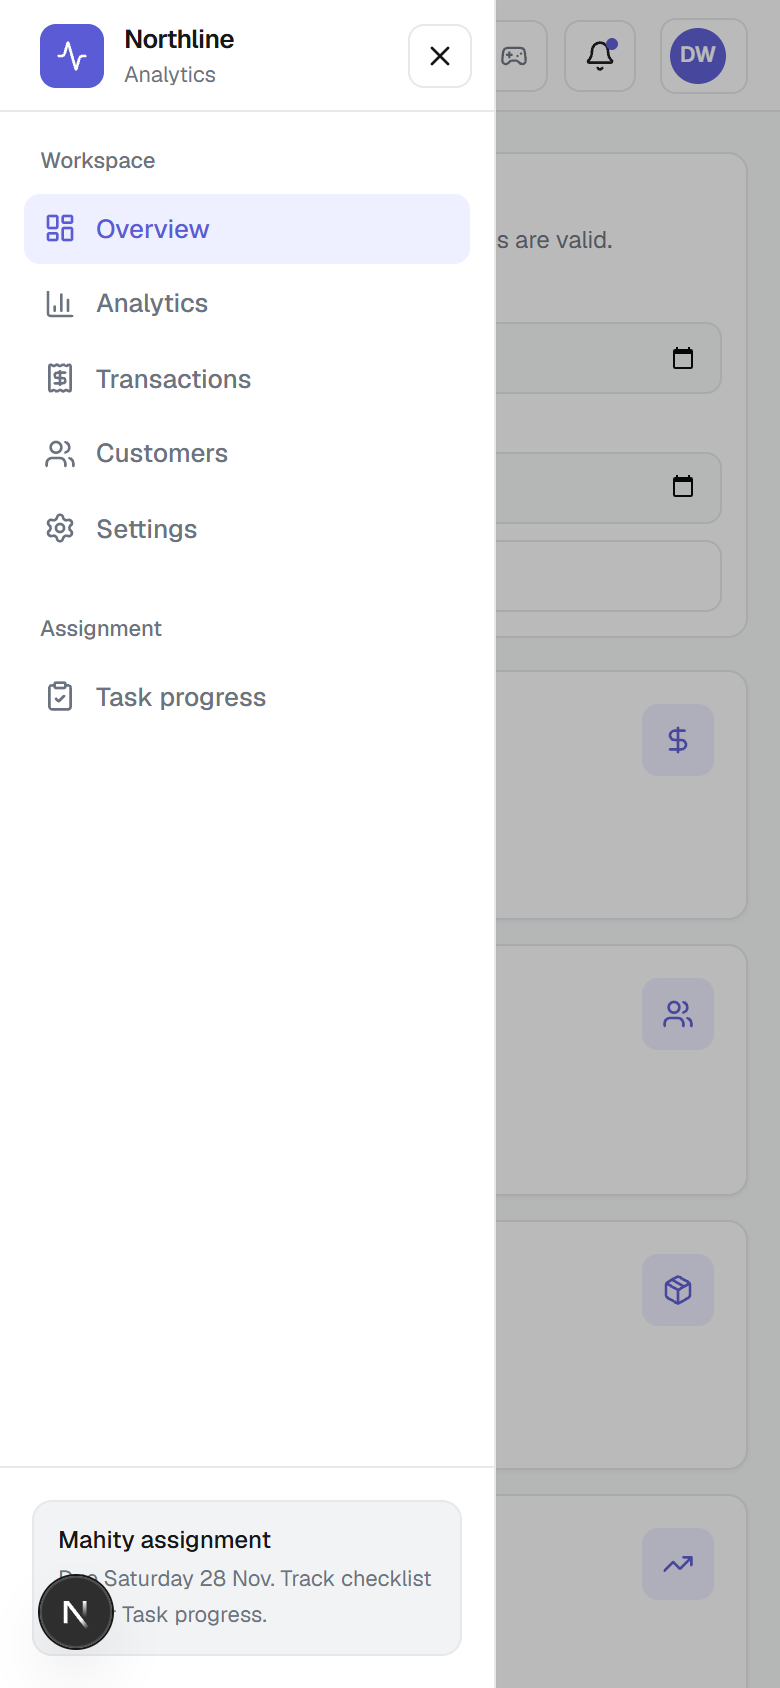
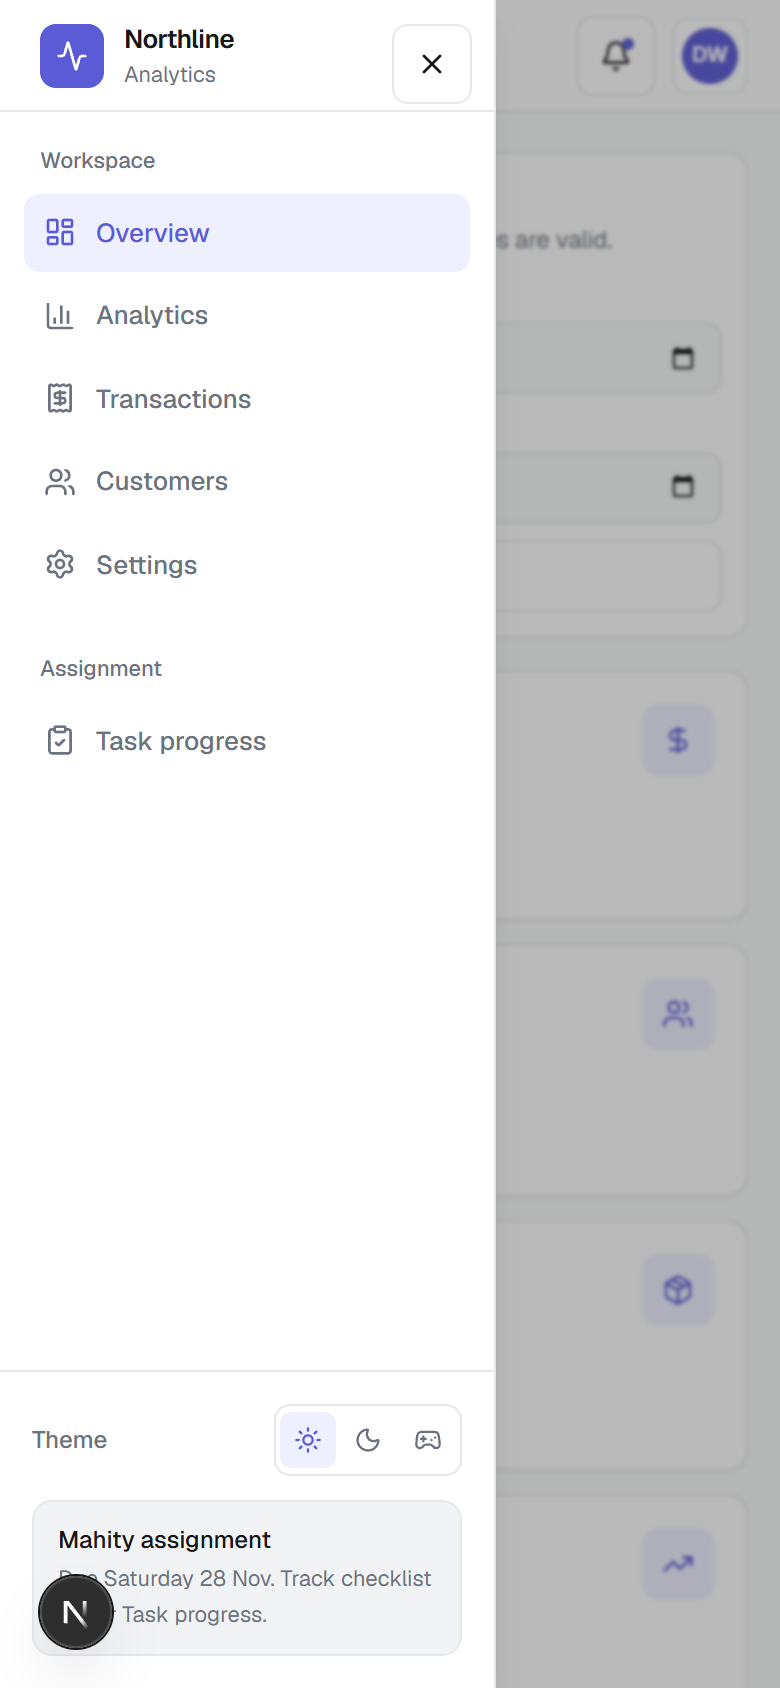
fix: improve mobile navbar, drawer width, and theme toggle placement

diff --git a/src/components/layout/Sidebar.tsx b/src/components/layout/Sidebar.tsx
@@ -5,6 +5,7 @@ import { usePathname } from "next/navigation";
 import { Activity } from "lucide-react";
 import { cn } from "@/lib/utils";
 import { mainNav, utilityNav } from "./nav";
+import { ThemeToggle } from "./ThemeToggle";
 
 type SidebarProps = {
   onNavigate?: () => void;
@@ -17,7 +18,7 @@ export function Sidebar({ onNavigate, className }: SidebarProps) {
   return (
     <aside
       className={cn(
-        "flex h-full w-[var(--sidebar-width)] flex-col border-r border-border bg-card",
+        "flex h-full w-full flex-col border-r border-border bg-card lg:w-[var(--sidebar-width)]",
         className,
       )}
     >
@@ -53,7 +54,7 @@ export function Sidebar({ onNavigate, className }: SidebarProps) {
                     href={item.href}
                     onClick={onNavigate}
                     className={cn(
-                      "group flex cursor-pointer items-center gap-2.5 rounded-[8px] px-2.5 py-2 text-[13px] font-medium transition-colors duration-150",
+                      "group flex cursor-pointer items-center gap-2.5 rounded-[8px] px-2.5 py-2.5 text-[13px] font-medium transition-colors duration-150 lg:py-2",
                       active
                         ? "bg-accent-soft text-accent"
                         : "text-muted-foreground hover:bg-muted hover:text-foreground",
@@ -89,7 +90,7 @@ export function Sidebar({ onNavigate, className }: SidebarProps) {
                     href={item.href}
                     onClick={onNavigate}
                     className={cn(
-                      "group flex cursor-pointer items-center gap-2.5 rounded-[8px] px-2.5 py-2 text-[13px] font-medium transition-colors duration-150",
+                      "group flex cursor-pointer items-center gap-2.5 rounded-[8px] px-2.5 py-2.5 text-[13px] font-medium transition-colors duration-150 lg:py-2",
                       active
                         ? "bg-accent-soft text-accent"
                         : "text-muted-foreground hover:bg-muted hover:text-foreground",
@@ -106,7 +107,11 @@ export function Sidebar({ onNavigate, className }: SidebarProps) {
         </div>
       </nav>
 
-      <div className="border-t border-border p-4">
+      <div className="space-y-3 border-t border-border p-4">
+        <div className="flex items-center justify-between sm:hidden">
+          <span className="text-[12px] font-medium text-muted-foreground">Theme</span>
+          <ThemeToggle />
+        </div>
         <div className="rounded-[10px] border border-border bg-muted px-3 py-2.5">
           <p className="text-[12px] font-medium text-foreground">Mahity assignment</p>
           <p className="mt-0.5 text-[11px] leading-relaxed text-muted-foreground">

diff --git a/src/components/layout/TopNavbar.tsx b/src/components/layout/TopNavbar.tsx
@@ -12,11 +12,11 @@ type TopNavbarProps = {
 export function TopNavbar({ title, subtitle, onMenuClick }: TopNavbarProps) {
   return (
     <header className="sticky top-0 z-20 flex h-[var(--navbar-height)] items-center justify-between gap-3 border-b border-border bg-card/90 px-4 backdrop-blur-md sm:px-6">
-      <div className="flex min-w-0 items-center gap-3">
+      <div className="flex min-w-0 items-center gap-2.5 sm:gap-3">
         <button
           type="button"
           onClick={onMenuClick}
-          className="inline-flex h-9 w-9 cursor-pointer items-center justify-center rounded-[8px] border border-border bg-card text-foreground transition-colors hover:bg-muted lg:hidden"
+          className="inline-flex h-10 w-10 shrink-0 cursor-pointer items-center justify-center rounded-[8px] border border-border bg-card text-foreground transition-colors hover:bg-muted lg:hidden"
           aria-label="Open navigation menu"
         >
           <Menu className="h-4 w-4" />
@@ -47,18 +47,20 @@ export function TopNavbar({ title, subtitle, onMenuClick }: TopNavbarProps) {
           />
         </label>
 
-        <ThemeToggle />
+        <div className="hidden sm:block">
+          <ThemeToggle />
+        </div>
 
         <button
           type="button"
-          className="relative inline-flex h-9 w-9 cursor-pointer items-center justify-center rounded-[8px] border border-border bg-card text-foreground transition-colors hover:bg-muted"
+          className="relative inline-flex h-10 w-10 shrink-0 cursor-pointer items-center justify-center rounded-[8px] border border-border bg-card text-foreground transition-colors hover:bg-muted sm:h-9 sm:w-9"
           aria-label="Notifications"
         >
           <Bell className="h-4 w-4" />
-          <span className="absolute top-2 right-2 h-1.5 w-1.5 rounded-full bg-accent" />
+          <span className="absolute top-2.5 right-2.5 h-1.5 w-1.5 rounded-full bg-accent sm:top-2 sm:right-2" />
         </button>
 
-        <div className="ml-1 flex items-center gap-2 rounded-[8px] border border-border bg-card py-1 pr-2.5 pl-1">
+        <div className="flex shrink-0 items-center gap-2 rounded-[8px] border border-border bg-card p-1 sm:ml-1 sm:py-1 sm:pr-2.5 sm:pl-1">
           <div
             className="flex h-7 w-7 items-center justify-center rounded-full bg-accent text-[11px] font-semibold text-white"
             aria-hidden

diff --git a/src/components/layout/DashboardShell.tsx b/src/components/layout/DashboardShell.tsx
@@ -71,15 +71,15 @@ export function DashboardShell({ children }: { children: ReactNode }) {
           <div className="fixed inset-0 z-40 lg:hidden" role="dialog" aria-modal="true">
             <button
               type="button"
-              className="absolute inset-0 cursor-pointer bg-foreground/30"
+              className="absolute inset-0 cursor-pointer bg-foreground/30 backdrop-blur-[1px]"
               aria-label="Close navigation menu"
               onClick={() => setMobileOpen(false)}
             />
-            <div className="relative flex h-full w-[min(100%,var(--sidebar-width))] flex-col bg-card shadow-xs">
+            <div className="relative flex h-full w-[min(85vw,var(--sidebar-width))] flex-col bg-card shadow-lg">
               <button
                 type="button"
                 onClick={() => setMobileOpen(false)}
-                className="absolute top-3 right-3 z-10 inline-flex h-8 w-8 cursor-pointer items-center justify-center rounded-[8px] border border-border bg-card text-foreground hover:bg-muted"
+                className="absolute top-3 right-3 z-10 inline-flex h-10 w-10 cursor-pointer items-center justify-center rounded-[8px] border border-border bg-card text-foreground hover:bg-muted"
                 aria-label="Close menu"
               >
                 <X className="h-4 w-4" />
